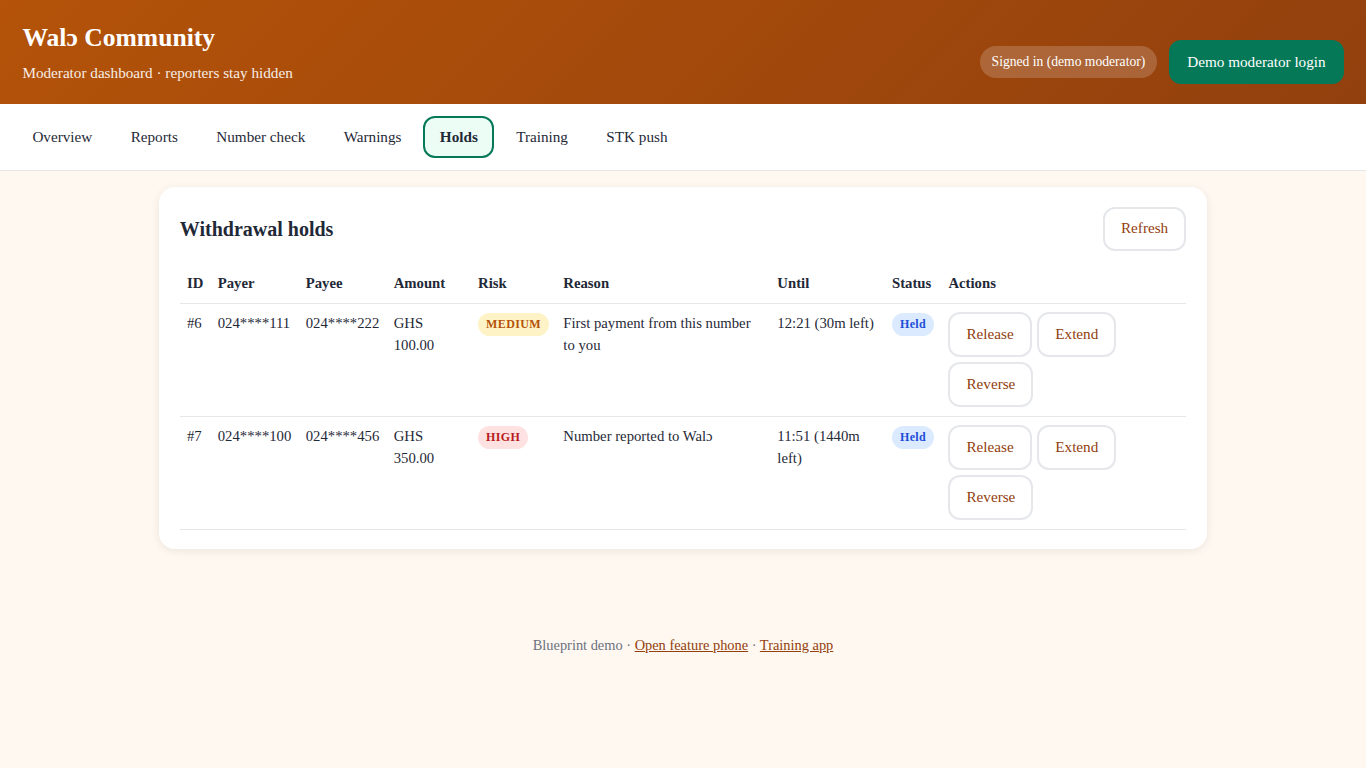
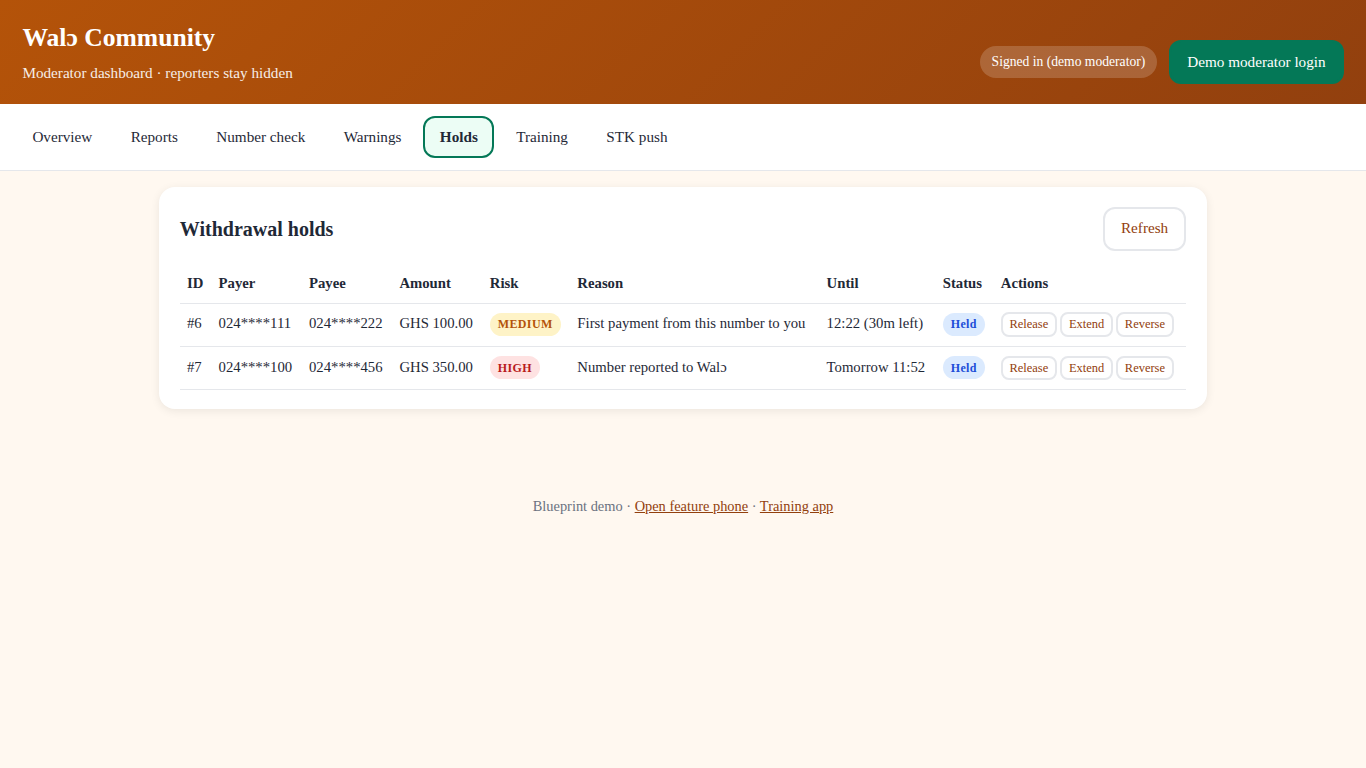
Polish console Holds: human time-left and compact actions

diff --git a/community-console/app.js b/community-console/app.js
@@ -233,17 +233,36 @@ async function loadWarnings() {
   renderWarnings(data.warnings || []);
 }
 
+function localDayKey(d) {
+  return `${d.getFullYear()}-${String(d.getMonth() + 1).padStart(2, "0")}-${String(d.getDate()).padStart(2, "0")}`;
+}
+
+function formatDurationLeft(totalMins) {
+  if (totalMins < 1) return "0m left";
+  if (totalMins < 60) return `${totalMins}m left`;
+  const h = Math.floor(totalMins / 60);
+  const m = totalMins % 60;
+  if (m === 0) return `${h}h left`;
+  return `${h}h ${m}m left`;
+}
+
 function formatHoldUntil(iso) {
   if (!iso) return "—";
   const dt = new Date(String(iso).includes("Z") ? iso : `${iso}Z`);
   if (Number.isNaN(dt.getTime())) return "—";
+  const now = new Date();
   const hhmm = dt.toLocaleTimeString("en-GB", {
     hour: "2-digit",
     minute: "2-digit",
     hourCycle: "h23",
   });
-  const mins = Math.max(0, Math.round((dt.getTime() - Date.now()) / 60_000));
-  return `${hhmm} (${mins}m left)`;
+  const tomorrow = new Date(now);
+  tomorrow.setDate(tomorrow.getDate() + 1);
+  if (localDayKey(dt) === localDayKey(tomorrow) && localDayKey(dt) !== localDayKey(now)) {
+    return `Tomorrow ${hhmm}`;
+  }
+  const totalMins = Math.max(0, Math.round((dt.getTime() - now.getTime()) / 60_000));
+  return `${hhmm} (${formatDurationLeft(totalMins)})`;
 }
 
 const HOLD_REASON_EN = {
@@ -295,10 +314,10 @@ function renderHolds(holds) {
     const st = (h.status || "held").toLowerCase();
     const active = st === "held" || st === "extended";
     const actions = active
-      ? `<div class="row-actions">
-          <button type="button" class="btn ghost hold-release" data-id="${h.id}">Release</button>
-          <button type="button" class="btn ghost hold-extend" data-id="${h.id}">Extend</button>
-          <button type="button" class="btn ghost hold-reverse" data-id="${h.id}">Reverse</button>
+      ? `<div class="row-actions row-actions-holds">
+          <button type="button" class="btn ghost btn-compact hold-release" data-id="${h.id}">Release</button>
+          <button type="button" class="btn ghost btn-compact hold-extend" data-id="${h.id}">Extend</button>
+          <button type="button" class="btn ghost btn-compact hold-reverse" data-id="${h.id}">Reverse</button>
         </div>`
       : "—";
     return `
@@ -306,7 +325,7 @@ function renderHolds(holds) {
       <td>#${h.id}</td>
       <td>${h.payer_masked || "—"}</td>
       <td>${h.payee_masked || "—"}</td>
-      <td>GHS ${Number(h.amount).toFixed(2)}</td>
+      <td class="hold-amount">GHS ${Number(h.amount).toFixed(2)}</td>
       <td>${riskChip(h.risk_level)}</td>
       <td>${holdReasonText(h)}</td>
       <td>${formatHoldUntil(h.release_at)}</td>

diff --git a/community-console/styles.css b/community-console/styles.css
@@ -251,6 +251,28 @@ input, textarea, select {
   gap: 0.35rem;
 }
 
+.holds-table td.hold-amount,
+.holds-table td:last-child {
+  white-space: nowrap;
+}
+
+.holds-table .row-actions-holds {
+  flex-wrap: nowrap;
+  gap: 0.2rem;
+}
+
+.holds-table .btn-compact {
+  padding: 0.18rem 0.42rem;
+  font-size: 0.78rem;
+  line-height: 1.2;
+  border-radius: 8px;
+}
+
+.holds-table td:nth-child(6) {
+  white-space: normal;
+  max-width: 16rem;
+}
+
 .row-actions select {
   max-width: 9rem;
   font-size: 0.85rem;

diff --git a/community-console/index.html b/community-console/index.html
@@ -104,7 +104,7 @@
       </div>
       <div id="holds_loading" class="loading" hidden>Loading holds…</div>
       <div id="holds_empty" class="empty" hidden>No holds in the last 24 hours.</div>
-      <table class="data-table" id="holds_table">
+      <table class="data-table holds-table" id="holds_table">
         <thead>
           <tr>
             <th>ID</th>
